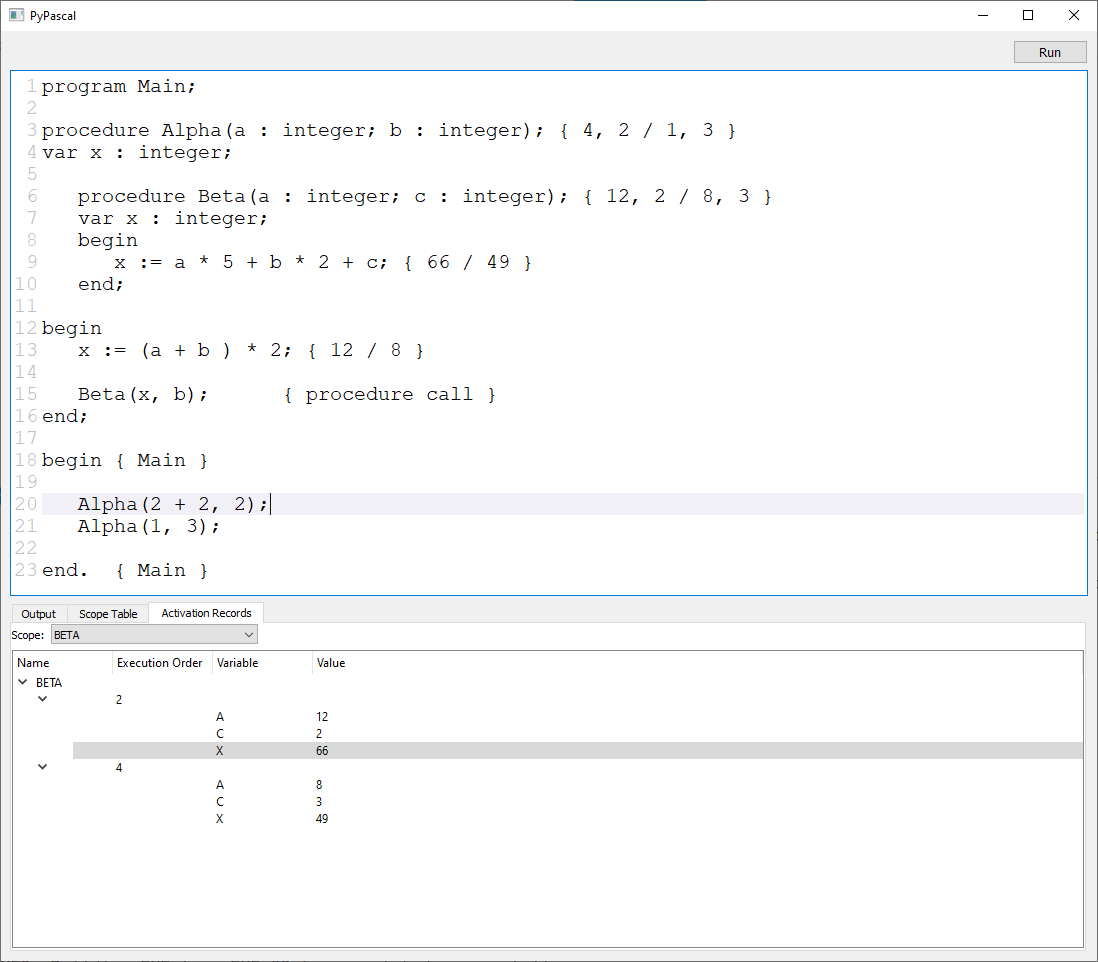
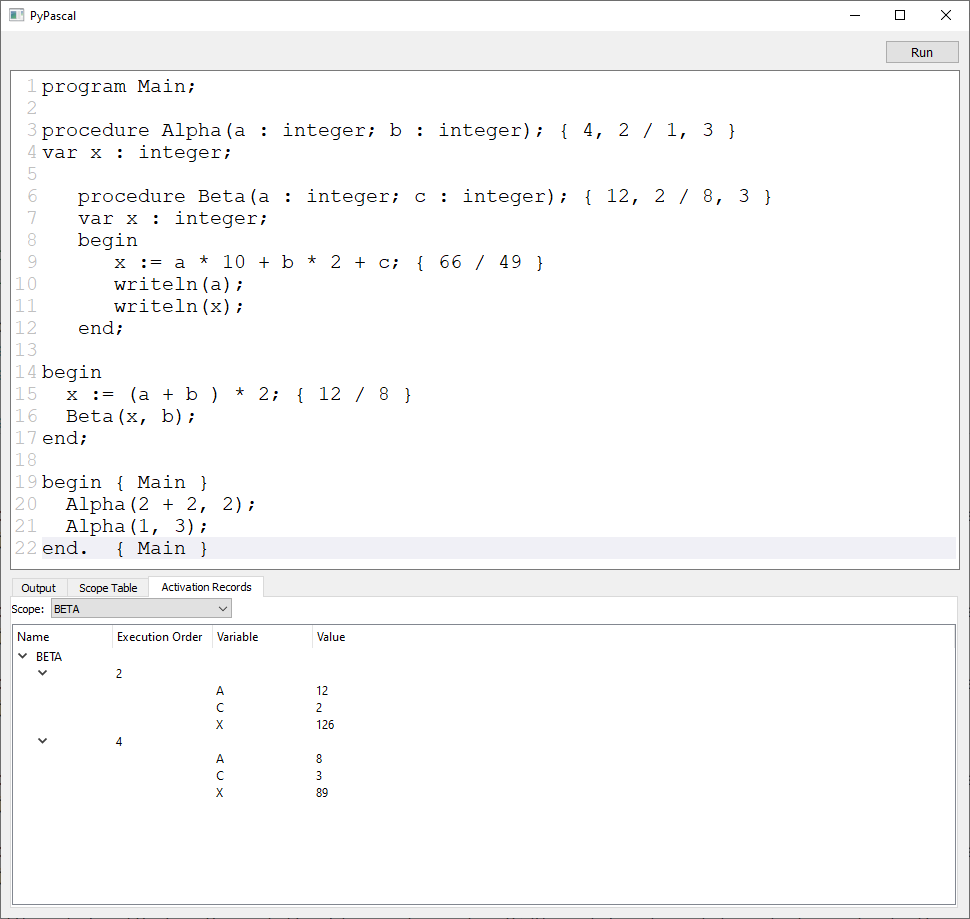
Add built-in procedure WRITELN

diff --git a/base/Parser.py b/base/Parser.py
@@ -16,6 +16,7 @@ from base.AST import (
 )
 from base.Error import ErrorCode, ParserError
 from base.Lexer import Lexer
+from base.Token import Token
 from base.TokenType import TokenType
 
 
@@ -194,11 +195,10 @@ class Parser(object):
                   | assignment_statement
                   | empty
         """
-
         if self.current_token.type == TokenType.BEGIN:
             node = self.compound_statement()
 
-        elif self.current_token.type == TokenType.ID:
+        elif self.current_token.type == TokenType.ID or Token.RESERVED_PROCEDURES.get(self.current_token.value):
 
             if self.lexer.current_char == '(':
                 node = self.proccall_statement()
@@ -226,7 +226,12 @@ class Parser(object):
         token = self.current_token
 
         proc_name = self.current_token.value
-        self.eat(TokenType.ID)
+
+        if token.type == TokenType.ID:
+            self.eat(TokenType.ID)
+        elif Token.RESERVED_PROCEDURES.get(token.value):
+            self.eat(Token.RESERVED_PROCEDURES.get(token.value))
+
         self.eat(TokenType.LPAREN)
         actual_params = []
         if self.current_token.type != TokenType.RPAREN:

diff --git a/base/SemanticAnalyzer.py b/base/SemanticAnalyzer.py
@@ -2,7 +2,7 @@ from base.Error import ErrorCode, SemanticError
 from base.NodeVisitor import NodeVisitor
 from base.Parser import Parser
 from base.ScopedSymbolTable import ScopedSymbolTable
-from base.Symbol import ProcedureSymbol, Symbol, VarSymbol
+from base.Symbol import BuiltInProcedureSymbol, ProcedureSymbol, Symbol, VarSymbol
 
 
 class SemanticAnalyzer(NodeVisitor):
@@ -125,11 +125,12 @@ class SemanticAnalyzer(NodeVisitor):
                 token=node.token,
             )
 
-        if len(node.actual_params) != len(proc_symbol.formal_params):
-            self.error(
-                error_code=ErrorCode.WRONG_ARGUMENTS_NUMBER,
-                token=node.token,
-            )
+        if not isinstance(proc_symbol, BuiltInProcedureSymbol):
+            if len(node.actual_params) != len(proc_symbol.formal_params):
+                self.error(
+                    error_code=ErrorCode.WRONG_ARGUMENTS_NUMBER,
+                    token=node.token,
+                )
 
         for param_node in node.actual_params:
             self.visit(param_node)

diff --git a/base/Interpreter.py b/base/Interpreter.py
@@ -15,6 +15,7 @@ class Interpreter(NodeVisitor):
         self.call_stack = CallStack()
         self.ar_tree = ARTree()
         self.global_execution_order = 0
+        self.stdout = []
 
     def error(self, error_code, token):
         raise InterpreterError(error_code, token, message=f'{error_code.value} -> {token}')
@@ -100,6 +101,16 @@ class Interpreter(NodeVisitor):
 
     def visit_ProcedureCall(self, node):
         proc_name = node.proc_name
+
+        if proc_name == 'WRITELN':
+            out = ''
+
+            for param in node.actual_params:
+                out += str(self.visit(param))
+
+            self.stdout.append(out)
+
+            return
 
         AR = ActivationRecord(
             name=proc_name,

diff --git a/base/Token.py b/base/Token.py
@@ -23,8 +23,16 @@ class Token(object):
     def _build_reserved_keywords():
         tokens = list(TokenType)
         start_idx = tokens.index(TokenType.PROGRAM)
-        end_idx = tokens.index(TokenType.END)
+        end_idx = tokens.index(TokenType.WRITELN)
+
+        return {token.value: token for token in tokens[start_idx : end_idx + 1]}
+
+    def _build_reserved_procedures():
+        tokens = list(TokenType)
+        start_idx = tokens.index(TokenType.WRITELN)
+        end_idx = tokens.index(TokenType.WRITELN)
 
         return {token.value: token for token in tokens[start_idx : end_idx + 1]}
 
     RESERVED_KEYWORDS = _build_reserved_keywords()
+    RESERVED_PROCEDURES = _build_reserved_procedures()

diff --git a/base/Symbol.py b/base/Symbol.py
@@ -55,3 +55,18 @@ class ProcedureSymbol(Symbol):
 
     def __repr__(self):
         return self.__str__()
+
+
+class BuiltInProcedureSymbol(ProcedureSymbol):
+    def __init__(self, name):
+        super().__init__(name)
+
+    def __str__(self):
+        return '<{class_name}(name={name}, parameters={params})>'.format(
+            class_name=self.__class__.__name__,
+            name=self.name,
+            params=self.formal_params,
+        )
+
+    def __repr__(self):
+        return self.__str__()

diff --git a/base/TokenType.py b/base/TokenType.py
@@ -15,7 +15,10 @@ class TokenType(Enum):
     COMMA = ','
 
     # reserved keywords
+    # it's important to have PROGRAM as the first keyword as it's affect
+    # building RESERVED_KEYWORDS dictionary
     PROGRAM = 'PROGRAM'
+
     INTEGER = 'INTEGER'
     REAL = 'REAL'
     INTEGER_DIV = 'DIV'
@@ -23,6 +26,9 @@ class TokenType(Enum):
     PROCEDURE = 'PROCEDURE'
     BEGIN = 'BEGIN'
     END = 'END'
+
+    # reserved procedures
+    WRITELN = 'WRITELN'
 
     # misc
     ID = 'ID'

diff --git a/base/ScopedSymbolTable.py b/base/ScopedSymbolTable.py
@@ -1,4 +1,4 @@
-from base.Symbol import BuiltinTypeSymbol
+from base.Symbol import BuiltInProcedureSymbol, BuiltinTypeSymbol
 
 
 class ScopedSymbolTable:
@@ -11,6 +11,7 @@ class ScopedSymbolTable:
     def _init_builtins(self):
         self.insert(BuiltinTypeSymbol('INTEGER'))
         self.insert(BuiltinTypeSymbol('REAL'))
+        self.insert(BuiltInProcedureSymbol('WRITELN'))
 
     def __str__(self):
         return self.scope_name

diff --git a/main.py b/main.py
@@ -98,7 +98,11 @@ class PyPascalApp(QMainWindow):
 
                 self.ui.scopeComboBox.addItem(node.scope.scope_name)
 
+            for out in self.interpreter.stdout:
+                self.ui.output.append(out)
+
         except Exception as e:
+
             self.ui.output.setText(str(e))
             self.ui.output.setStyleSheet('color: red;')
 

diff --git a/README.md b/README.md
@@ -16,11 +16,39 @@ A simple Pascal interpreter based on [Let's Build a Simple Interpreter](https://
 - Additionally implemented:
   - Procedures can access non-local variables
   - UI with following output:
-    - Error messages
+    - Standard and error output
     - Table with scopes
     - Activation records for each scope
 
 ![img.png](src/img.png)
+<details>
+<summary>Sample program</summary>
+<br>
+<pre>
+program Main;
+
+procedure Alpha(a : integer; b : integer); { 4, 2 / 1, 3 }
+var x : integer;
+
+   procedure Beta(a : integer; c : integer); { 12, 2 / 8, 3 }
+   var x : integer;
+   begin
+      x := a * 10 + b * 2 + c; { 66 / 49 }
+      writeln(a);
+      writeln(x);
+   end;
+
+begin
+  x := (a + b ) * 2; { 12 / 8 }
+  Beta(x, b);
+end;
+
+begin { Main }
+  Alpha(2 + 2, 2);
+  Alpha(1, 3);
+end.  { Main }
+</pre>
+</details>
 
 ## Grammar
 
